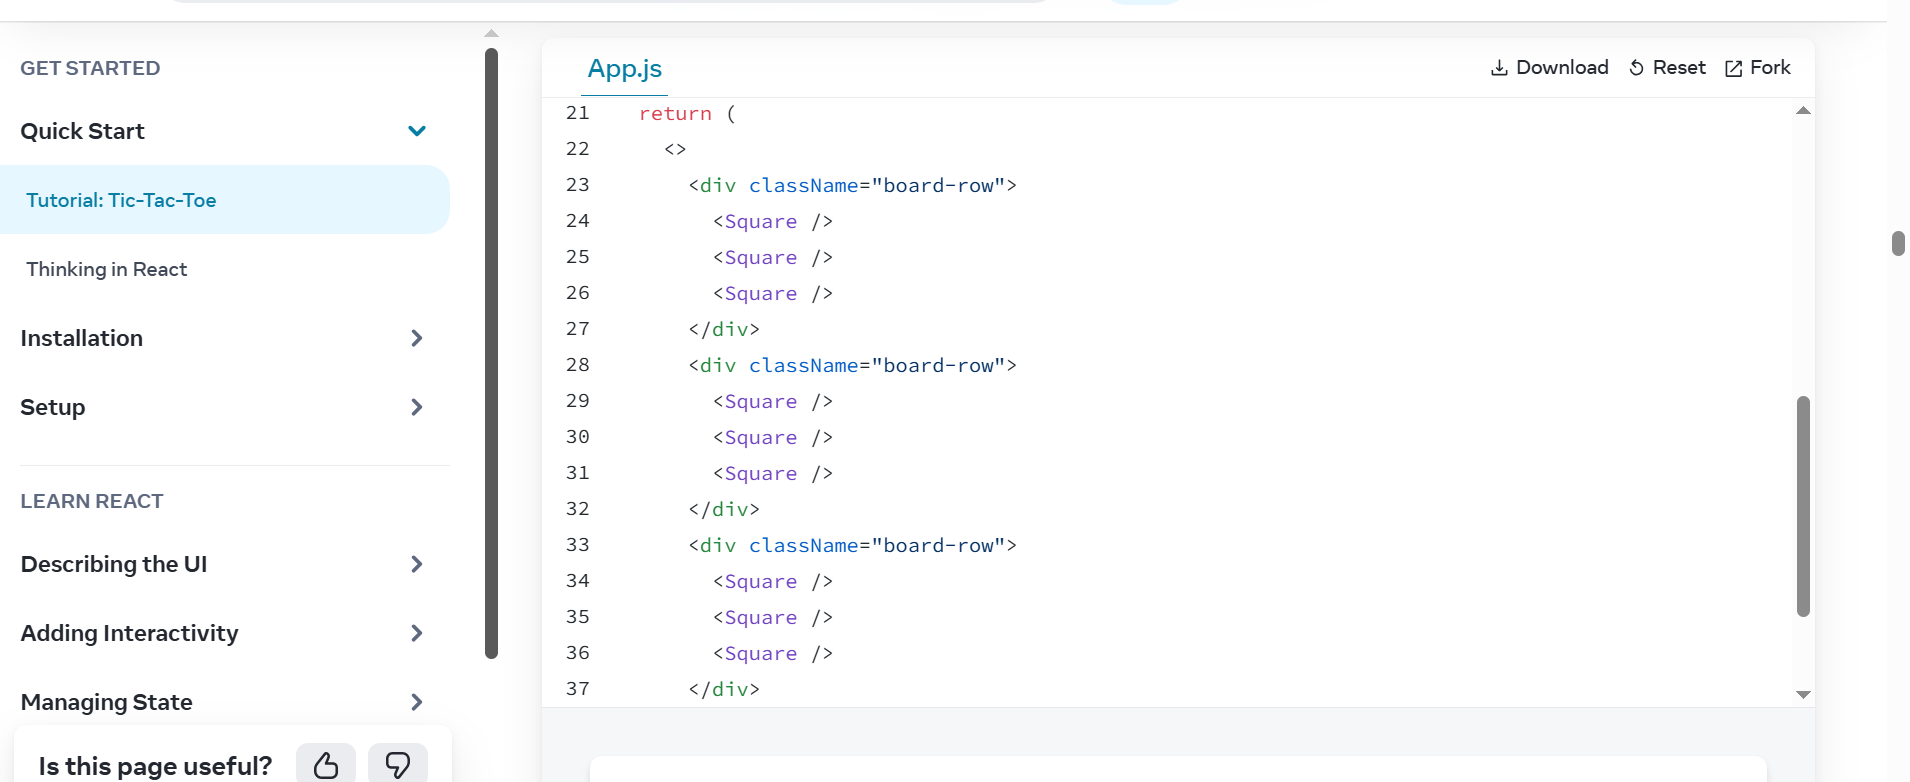
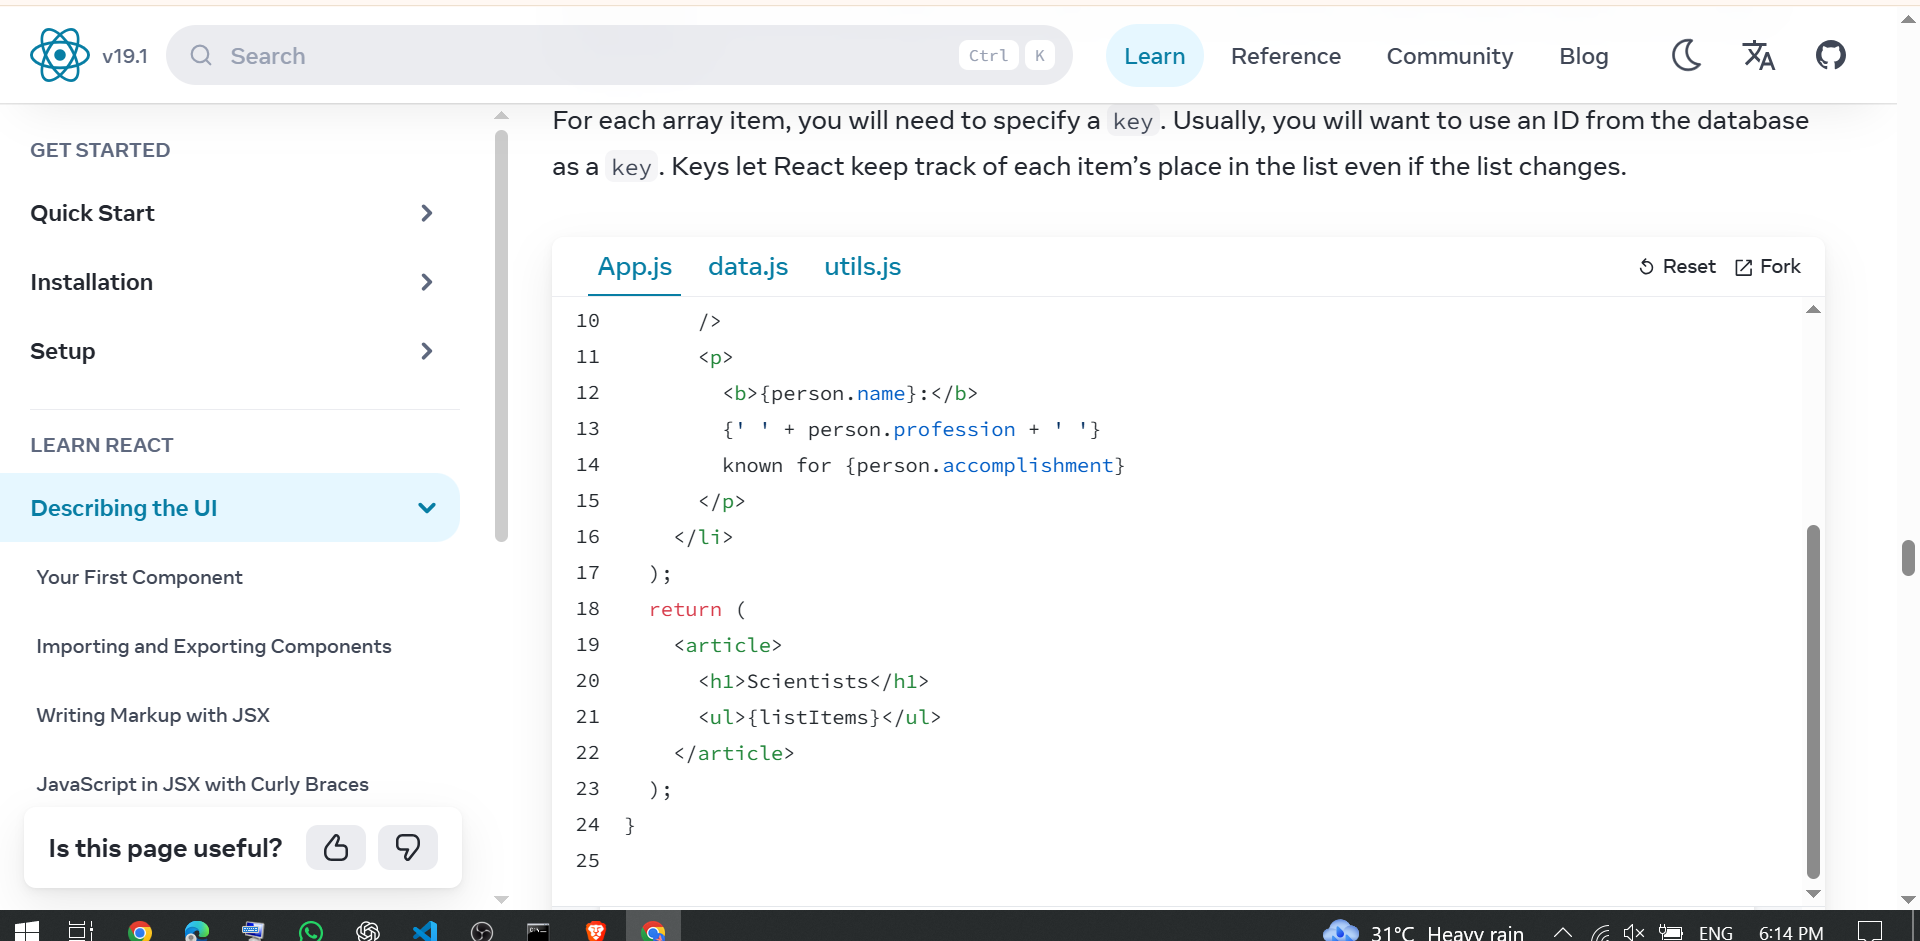
prople car cena image practice

diff --git a/tic-tac-toe/src/People.jsx b/tic-tac-toe/src/People.jsx
@@ -1,0 +1,33 @@
+import React from "react";
+
+const People = () => {
+  const peopleData = {
+    people: [
+      { id: 1, name: "Alice", age: 25, profession: "Engineer" },
+      { id: 2, name: "Bob", age: 30, profession: "Designer" },
+      { id: 3, name: "Charlie", age: 22, profession: "Developer" },
+      { id: 4, name: "Diana", age: 28, profession: "Doctor" },
+      { id: 5, name: "Ethan", age: 26, profession: "Teacher" },
+    ],
+  };
+  return (
+    <div className="m-20">
+      <h4 className="text-4xl font-bold text-center mb-4">People List</h4>
+      <ul className="flex flex-col justify-center items-center gap-4 ">
+       {
+        peopleData.people.map((person) => (
+          <li
+          className="w-64 bg-white shadow-md rounded-xl p-4 text-left "
+          key={person.id}>
+              <p>Name:{person.name}</p>
+              <p>Age:{person.age}</p>
+              <p>Profession:{person.profession}</p>
+          </li>
+        ))
+       }
+      </ul>
+    </div>
+  );
+};
+
+export default People;

diff --git a/tic-tac-toe/src/Image.jsx b/tic-tac-toe/src/Image.jsx
@@ -1,0 +1,28 @@
+import Lion from "./assets/lion.jpg";
+const Image = () => {
+  return (
+    <>
+      <div>
+        <h1 className="text-center text-4xl  m-10">Lion's image</h1>
+        <img
+          className="w-64 h-auto rounded-4xl mx-auto"
+          src={Lion}
+          alt="lion"
+        />
+        <ul>
+          <li className="text-center text-4xl text-red-500 font-semibold leading-relaxed shadow-md rounded-lg">
+            Length: Measurable distance between points or infinite if extended
+          </li>
+          <li className="text-center text-4xl text-red-500 font-semibold leading-relaxed shadow-md rounded-lg">
+            Straightness: No curves; perfectly straight.
+          </li>
+          <li className="text-center text-4xl text-red-500 font-semibold leading-relaxed shadow-md rounded-lg">
+            Direction: Extends in a specific orientation or angle.
+          </li>
+        </ul>
+      </div>
+    </>
+  );
+};
+
+export default Image;

diff --git a/tic-tac-toe/src/Cena.jsx b/tic-tac-toe/src/Cena.jsx
@@ -1,0 +1,25 @@
+import React from "react";
+import Jhon from "./assets/cena.jpg";
+const Cena = () => {
+  const person = {
+    name: "Jhon Cena",
+    theme: {
+      backgroundColor: "black",
+      color: "pink",
+    },
+  };
+
+  return (
+    <div className="m-20">
+      <div style={person.theme}>
+        <h1>Name: {person.name}</h1>
+        <img className="w-64 h-auto mx-auto" src={Jhon} alt="cena" />
+      </div>
+      <h1 className="text-2xl text-center font-bold text-white-600">
+        {person.name} was my chilhood hero
+      </h1>
+    </div>
+  );
+};
+
+export default Cena;

diff --git a/tic-tac-toe/src/App.jsx b/tic-tac-toe/src/App.jsx
@@ -5,6 +5,10 @@ import Board from './Board'
 import Value from './Value'
 import Click from './Click'
 import Square from './Square'
+import Image from './Image'
+import Cena from './Cena'
+import Car from './Car'
+import People from './People'
 function App() {
  
 
@@ -15,6 +19,11 @@ function App() {
     <BgChnage></BgChnage>
     <Click></Click>
     <Square></Square>
+    <Image></Image>
+    <Cena></Cena>
+    <Car></Car>
+    <People></People>
+    
     </>
   )
 }

diff --git a/tic-tac-toe/src/Car.jsx b/tic-tac-toe/src/Car.jsx
@@ -1,0 +1,14 @@
+import React from 'react';
+import CarList from './CarList';
+const Car = () => {
+  return (
+    <div 
+    className='flex flex-col justify-center items-center m-20'
+    >
+      <h1 className='text-2xl text-black-600 font-extrabold'>List of car</h1>
+      <CarList></CarList>
+    </div>
+  );
+};
+
+export default Car;

diff --git a/tic-tac-toe/src/CarList.jsx b/tic-tac-toe/src/CarList.jsx
@@ -1,0 +1,15 @@
+import React from 'react';
+export default function CarList () {
+
+    
+  return (
+    <>
+    
+    <ul>
+      <li>BMW </li>
+      <li>Mercedes </li>
+      <li>Bugati  </li>
+    </ul>
+    </>
+  )
+}
